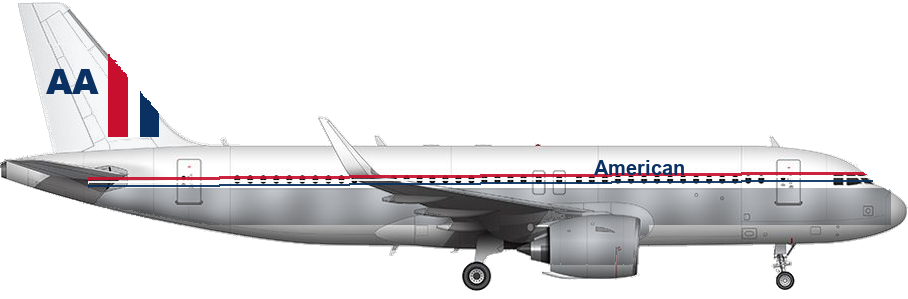
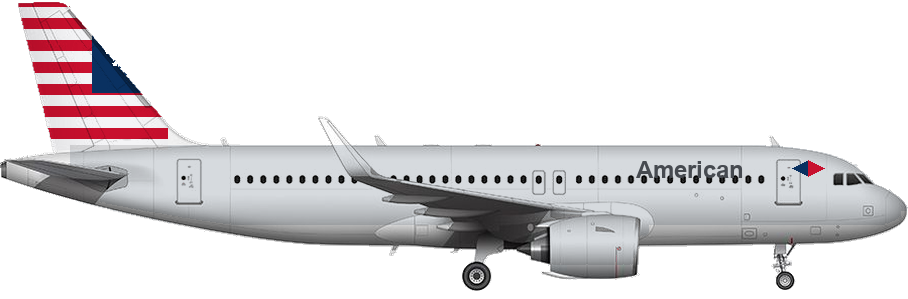
Paint A320 Start Flight liveries from the reference photos.
Replace the invented American chrome scheme with the current flag-tail A320, and add United, Turkish, Lufthansa, JetBlue, Air France, and Air Canada.

Changed region(s): [[0.0, 0.0602, 1.0, 0.903], [0.0, 0.0, 0.0925, 0.0301]]

diff --git a/flight-simulator-2026/js/game.js b/flight-simulator-2026/js/game.js
@@ -45,6 +45,12 @@ class Game {
       ["dal", "a320-dal"],
       ["baw", "a320-baw"],
       ["aal", "a320-aal"],
+      ["ual", "a320-ual"],
+      ["thy", "a320-thy"],
+      ["dlh", "a320-dlh"],
+      ["jbu", "a320-jbu"],
+      ["afr", "a320-afr"],
+      ["aca", "a320-aca"],
     ];
     for (const [id, prefix] of packs) {
       const pack = { up: null, down: null };
@@ -52,7 +58,7 @@ class Game {
       const load = (file, key) => {
         const img = new Image();
         img.onload = () => { pack[key] = img; };
-        img.src = `${base}${file}?v=liv1`;
+        img.src = `${base}${file}?v=liv2`;
       };
       load(`${prefix}-gearup.png`, "up");
       load(`${prefix}-geardown.png`, "down");

diff --git a/flight-simulator-2026/index.html b/flight-simulator-2026/index.html
@@ -153,7 +153,7 @@
   <script src="js/input.js?v=hump38"></script>
   <script src="js/hud.js?v=hump38"></script>
   <script src="js/loading.js?v=hump38"></script>
-  <script src="js/game.js?v=a320liv1"></script>
+  <script src="js/game.js?v=a320liv2"></script>
   <script src="js/mobile.js?v=hump38"></script>
   <script src="js/menu.js?v=free1"></script>
   <script src="js/main.js"></script>
